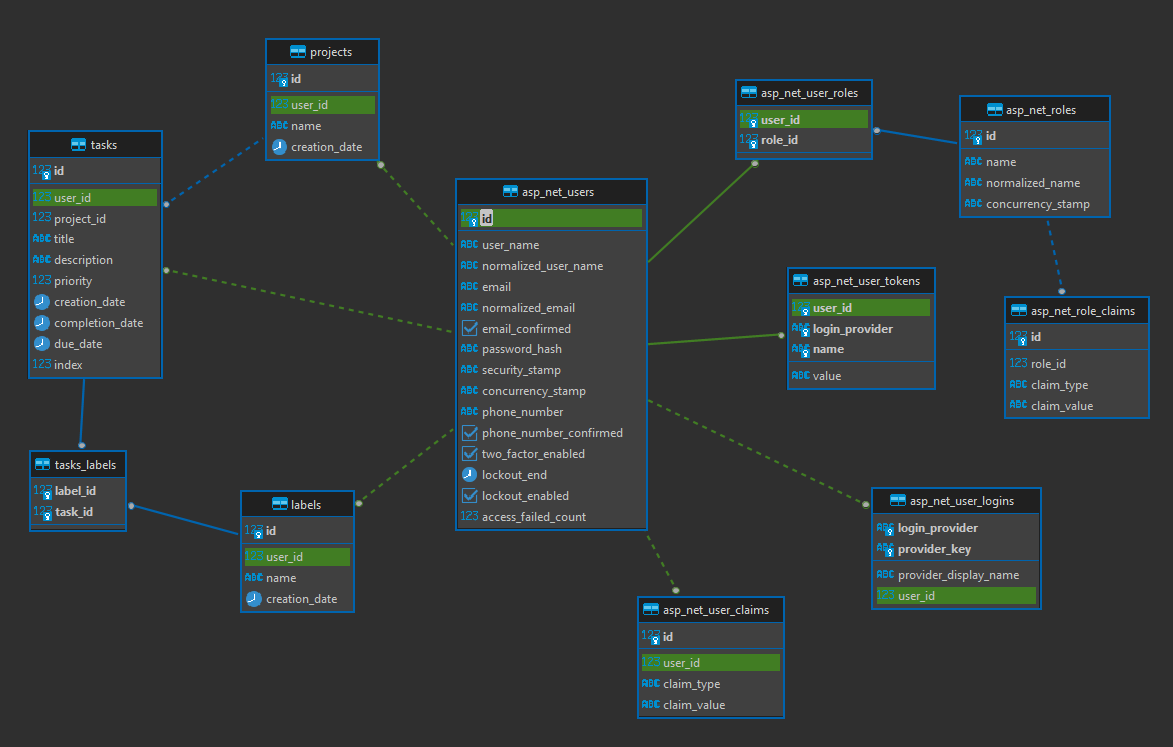
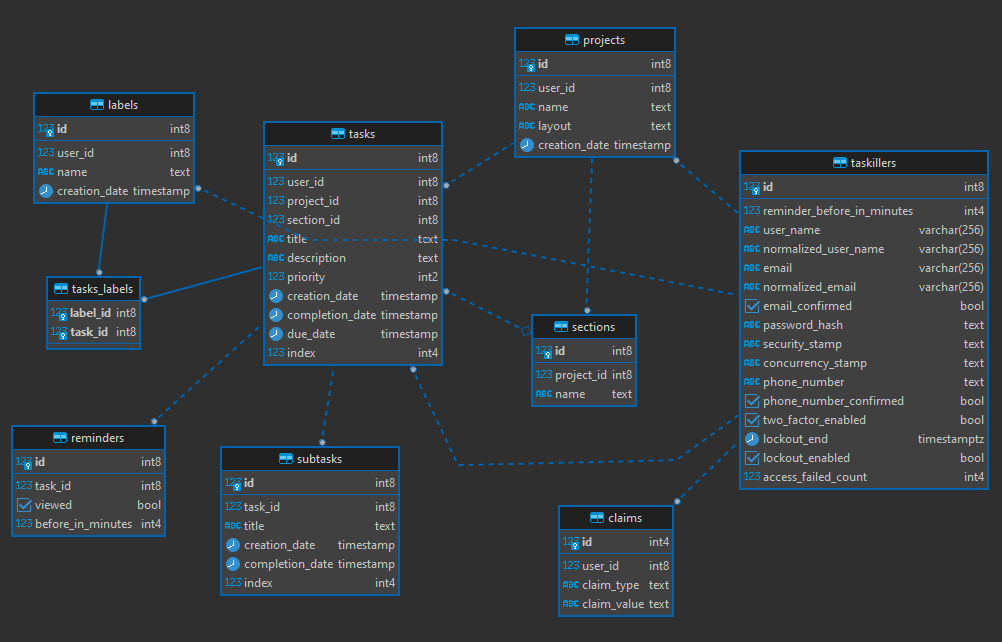
Add db diagram

diff --git a/Src/Controllers/Taskillers/Dtos/TaskillerIn.cs b/Src/Controllers/Taskillers/Dtos/TaskillerIn.cs
@@ -11,6 +11,6 @@ public class TaskillerIn
     /// <summary>
     /// The user password.
     /// </summary>
-    /// <example>Fad03Ec8394f99</example>
+    /// <example>F@d03Ec8394f99</example>
     public string password { get; set; }
 }

diff --git a/Src/Controllers/Taskillers/Dtos/LoginIn.cs b/Src/Controllers/Taskillers/Dtos/LoginIn.cs
@@ -11,6 +11,6 @@ public class LoginIn
     /// <summary>
     /// The user password.
     /// </summary>
-    /// <example>Fad03Ec8394f99</example>
+    /// <example>F@d03Ec8394f99</example>
     public string password { get; set; }
 }

diff --git a/README.md b/README.md
@@ -8,6 +8,7 @@ Fiz esse projeto para ajudar quem tá começando na área de desenvolvimento, co
 
 ![Main Screen](/docs/main-screen.png)
 ![Task View](/docs/task-view.png)
+![Database Tables](/docs/taskill-db-diagram.png)
 
 ## Backend
 
